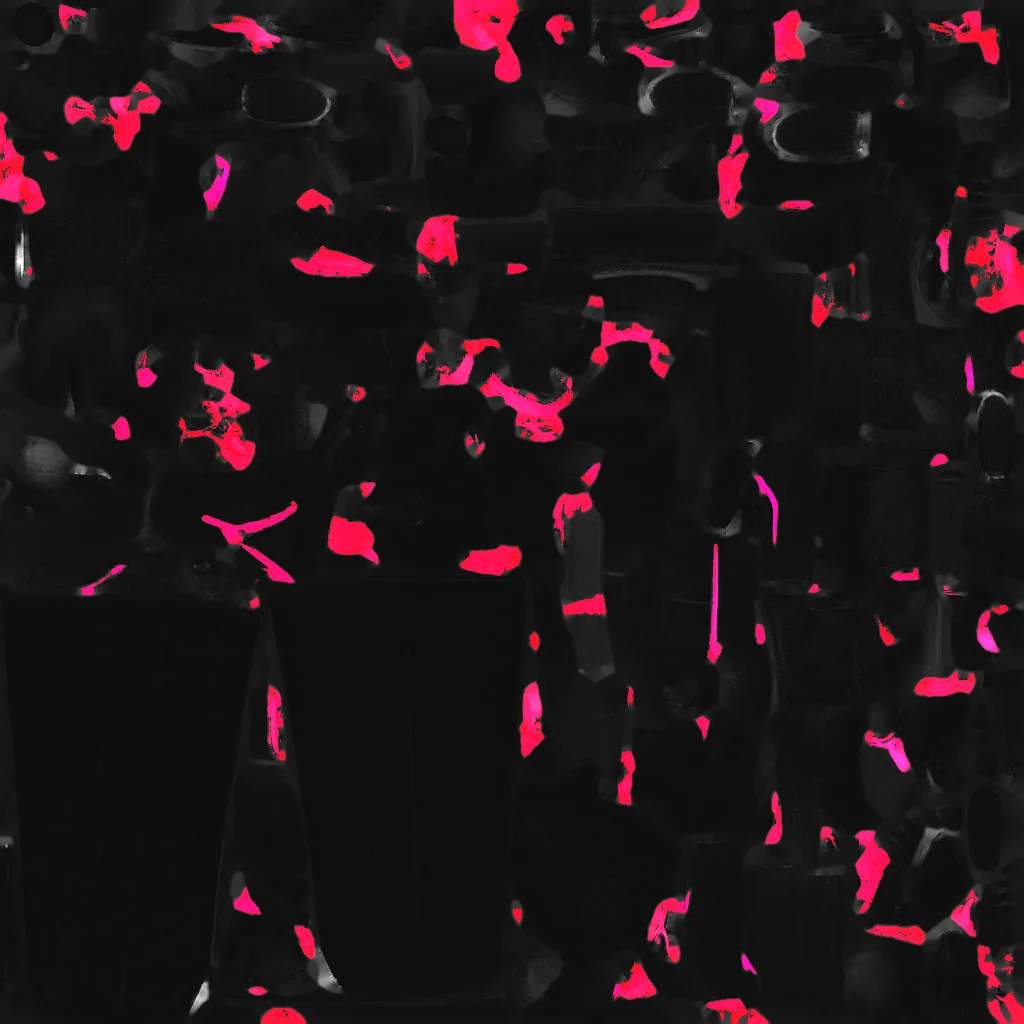
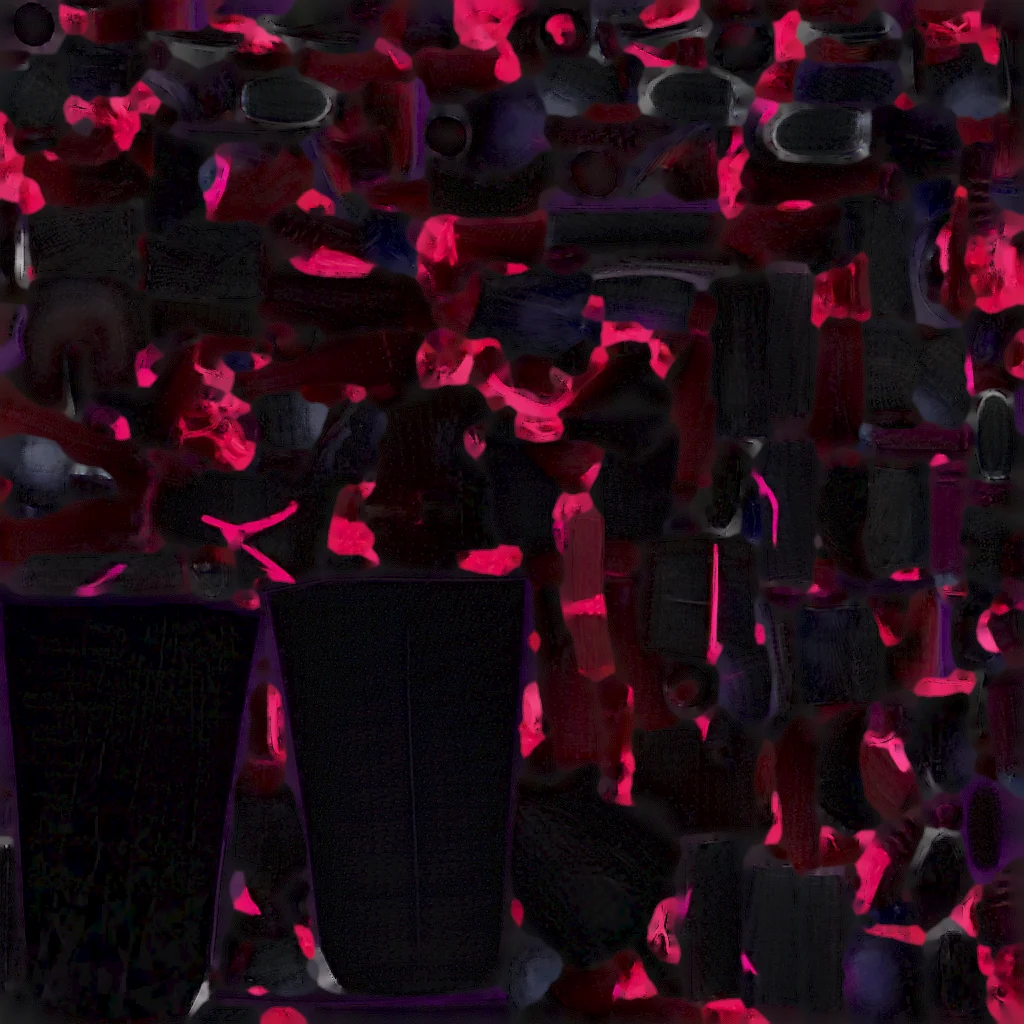
Outil de conversion par lot + modeles IA a la stature des heros (1,89 m)
Claude-Session: https://claude.ai/code/session_01ABr1YEyrtTCwT9xQimN4gi

diff --git a/outils/lot_modeles.py b/outils/lot_modeles.py
@@ -1,0 +1,61 @@
+#!/usr/bin/env python3
+"""Convertit tout un dossier de modeles et les branche dans le jeu.
+
+    python3 outils/lot_modeles.py dossier_des_glb
+
+Chaque fichier doit porter l'identifiant du heros : eldiablo.glb, ignar.glb...
+Le script convertit chacun vers models/, puis met a jour la liste MODELES_IA
+dans index.html avec les heros qui ont bien un modele sur le disque.
+"""
+import os
+import re
+import sys
+import glob
+
+sys.path.insert(0, os.path.dirname(os.path.abspath(__file__)))
+from glb_vers_rc import convertir
+
+RACINE = os.path.dirname(os.path.dirname(os.path.abspath(__file__)))
+
+
+def lot(dossier, sortie=None):
+    sortie = sortie or os.path.join(RACINE, "models")
+    faits, rates = [], []
+    for f in sorted(glob.glob(os.path.join(dossier, "*.glb"))):
+        nom = os.path.splitext(os.path.basename(f))[0]
+        print("\n=== %s ===" % nom)
+        try:
+            convertir(f, nom, sortie)
+            faits.append(nom)
+        except Exception as e:
+            print("  echec :", e)
+            rates.append(nom)
+    return faits, rates
+
+
+def brancher(sortie=None):
+    """Met MODELES_IA a jour d'apres les fichiers reellement presents."""
+    sortie = sortie or os.path.join(RACINE, "models")
+    base = {"male", "female"}
+    ids = sorted(os.path.splitext(os.path.basename(p))[0]
+                 for p in glob.glob(os.path.join(sortie, "*.json")))
+    ids = [i for i in ids if i not in base]
+    p = os.path.join(RACINE, "index.html")
+    s = open(p, encoding="utf-8").read()
+    neuf = "const MODELES_IA={%s}" % ",".join('%s:"%s"' % (i, i) for i in ids)
+    s2, n = re.subn(r"const MODELES_IA=\{[^}]*\}", neuf, s, count=1)
+    if not n:
+        raise SystemExit("MODELES_IA introuvable dans index.html")
+    open(p, "w", encoding="utf-8").write(s2)
+    print("\nbranches dans le jeu (%d) : %s" % (len(ids), ", ".join(ids)))
+    return ids
+
+
+if __name__ == "__main__":
+    if len(sys.argv) < 2:
+        print(__doc__)
+        raise SystemExit(1)
+    faits, rates = lot(sys.argv[1])
+    brancher()
+    print("\n%d converti(s), %d echec(s)%s" % (len(faits), len(rates),
+                                               (" : " + ", ".join(rates)) if rates else ""))

diff --git a/outils/glb_vers_rc.py b/outils/glb_vers_rc.py
@@ -50,7 +50,7 @@ REPLI = {"haL": "elL", "haR": "elR", "elL": "shL", "elR": "shR", "ftL": "knL", "
 TYPE_N = {"SCALAR": 1, "VEC2": 2, "VEC3": 3, "VEC4": 4, "MAT4": 16}
 TYPE_FMT = {5120: np.int8, 5121: np.uint8, 5122: np.int16,
             5123: np.uint16, 5125: np.uint32, 5126: np.float32}
-HAUTEUR = 1.656
+HAUTEUR = 1.89  # meme stature que les heros proceduraux apres le +14 % de la v21
 
 
 # --------------------------------------------------------------------------- #
